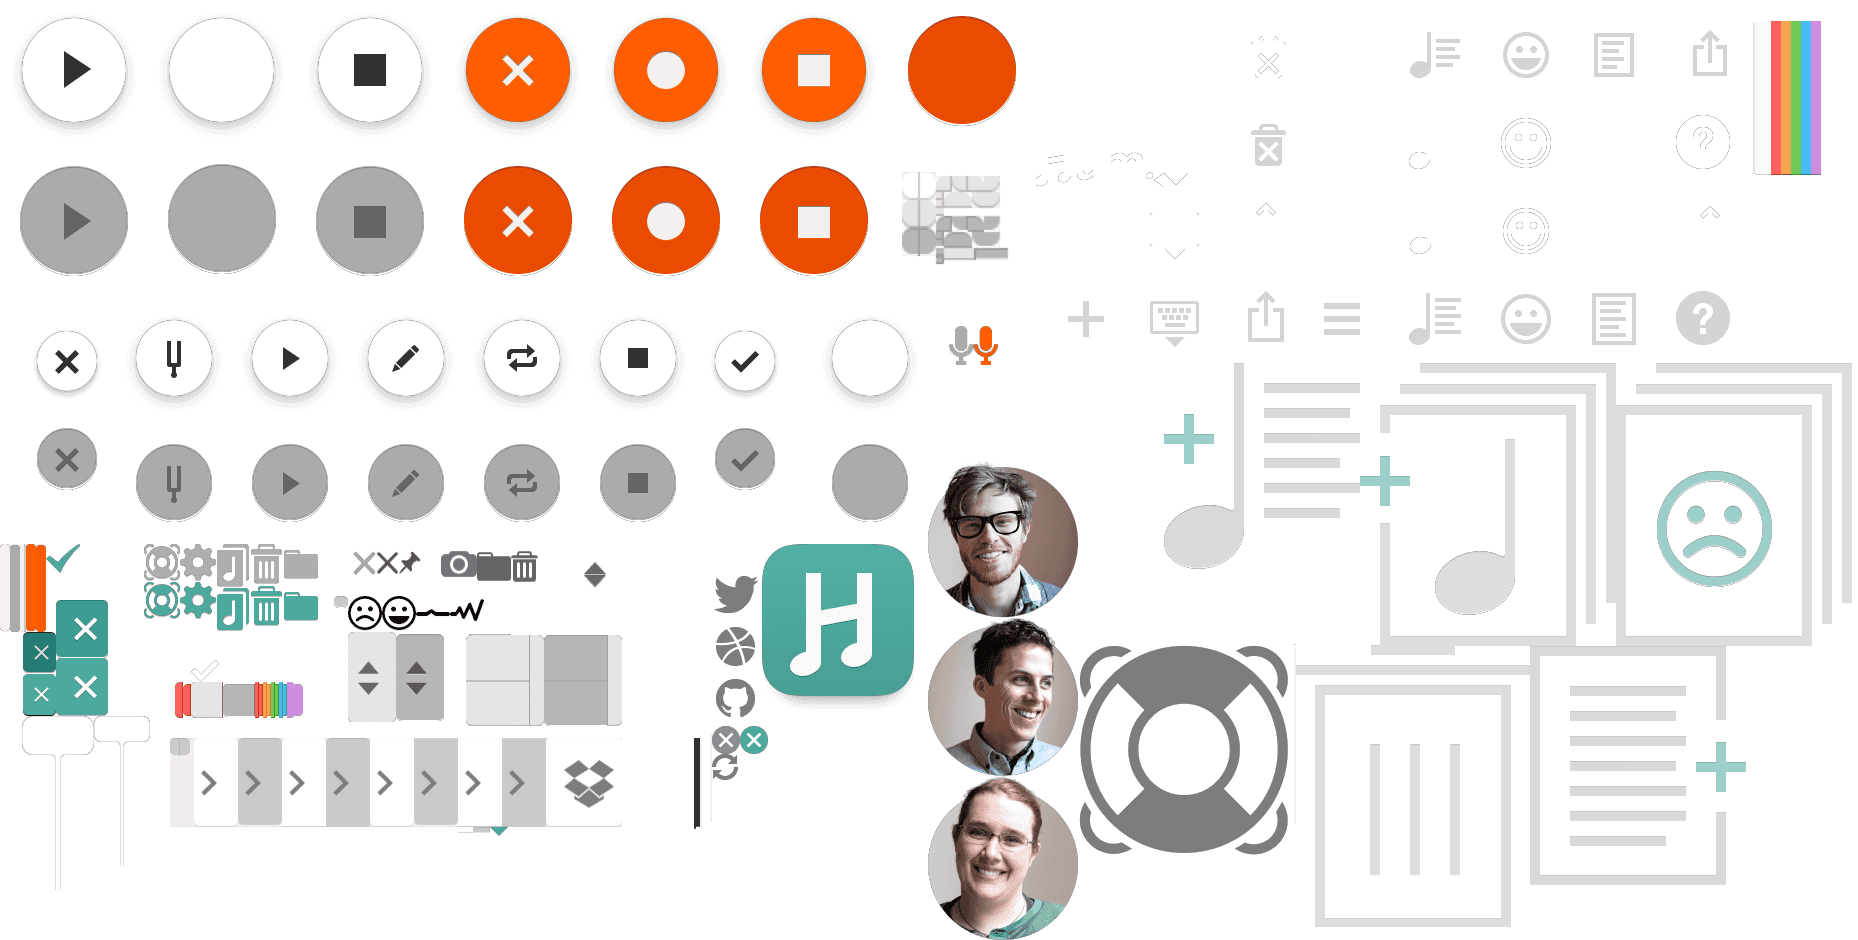
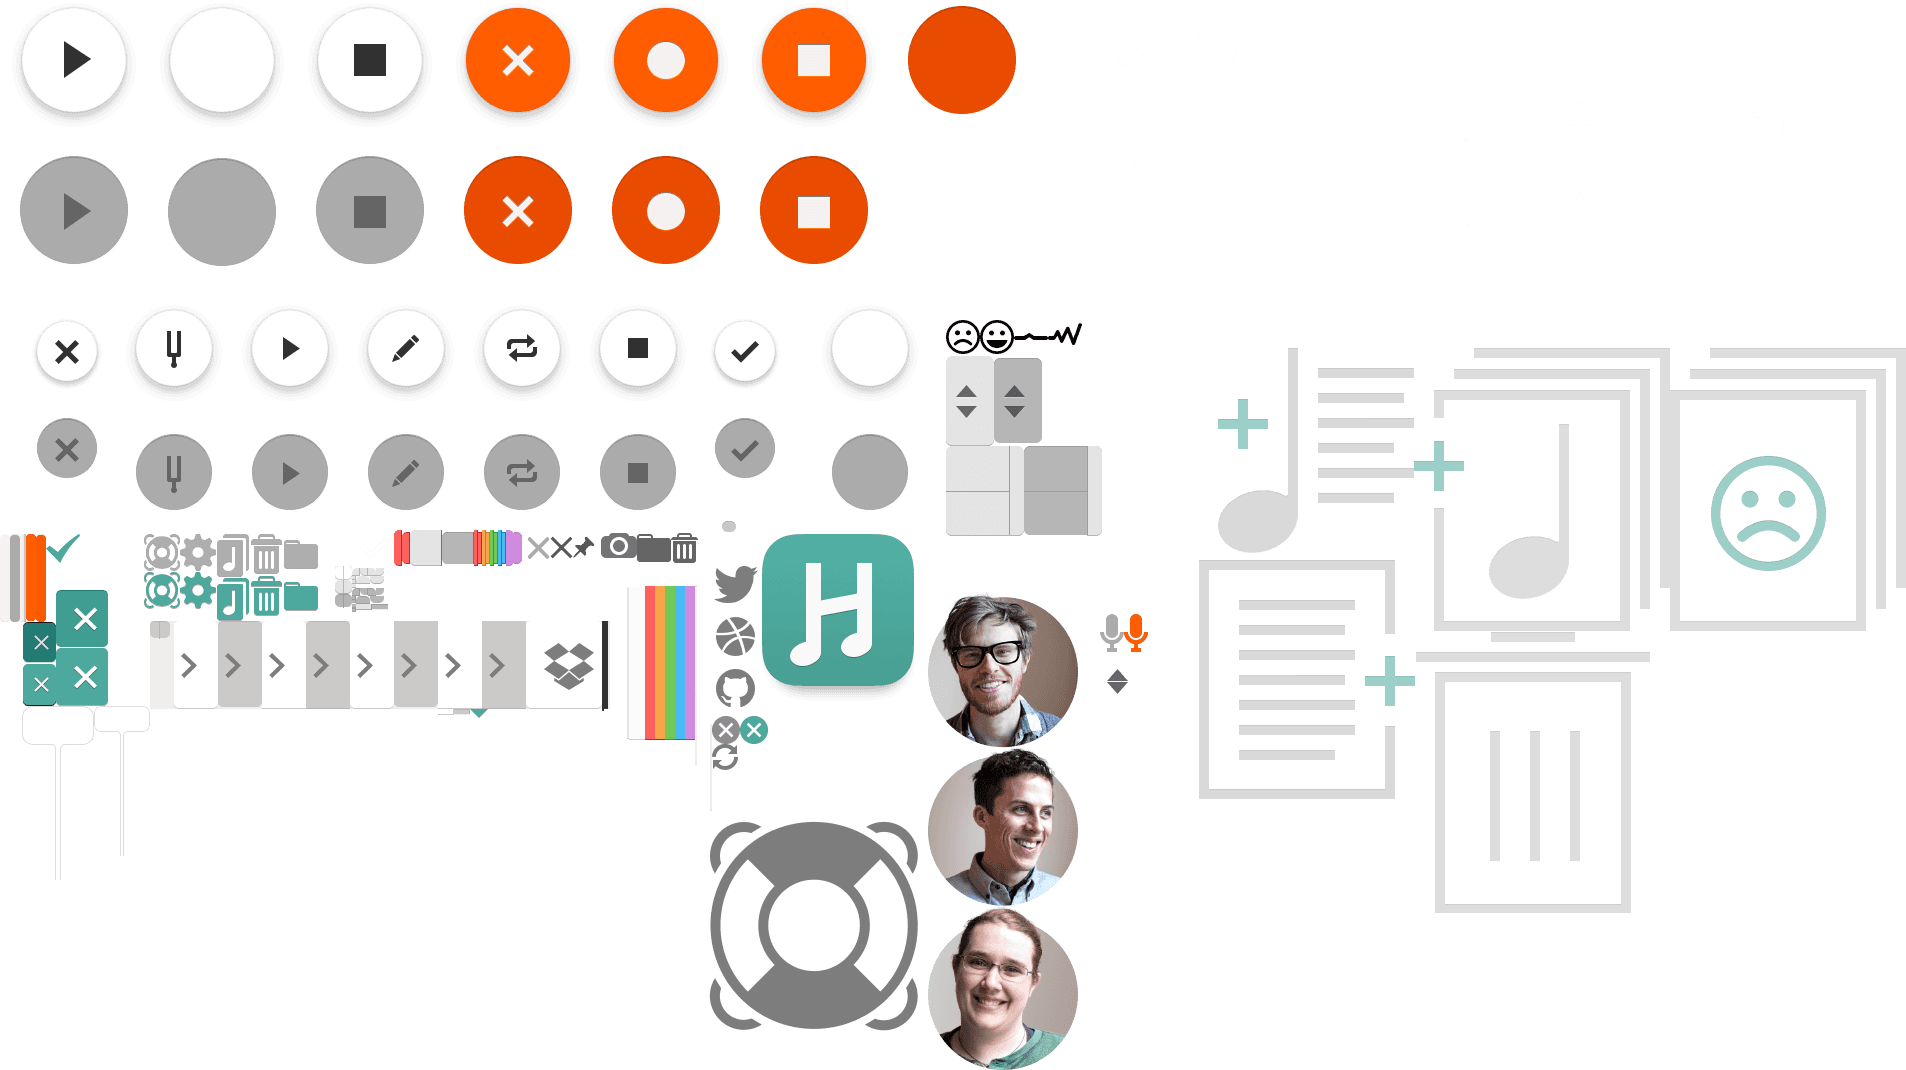
New Hum production image

diff --git a/src/work/hum/index.html b/src/work/hum/index.html
@@ -271,8 +271,8 @@
 
     <div class="background">
       <div class="caption">
-        <img src="media/production.png" width="929" alt="Production">
-        I love to geek out about production-ready sprite sheets
+        <img src="media/production.png" width="953" alt="Production">
+        Because I just love to geek out about production-ready sprite sheets
       </div>
     </div>
 
